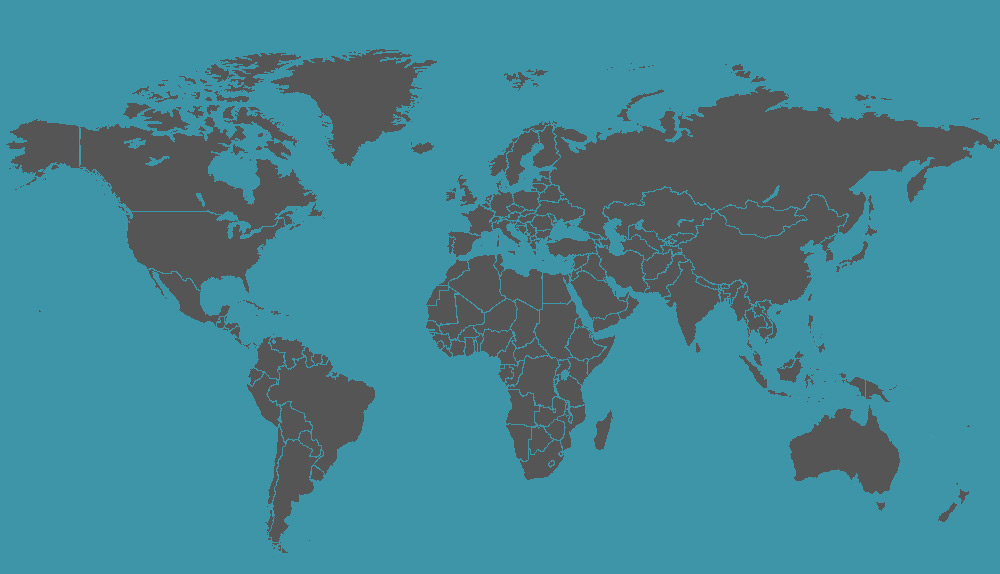
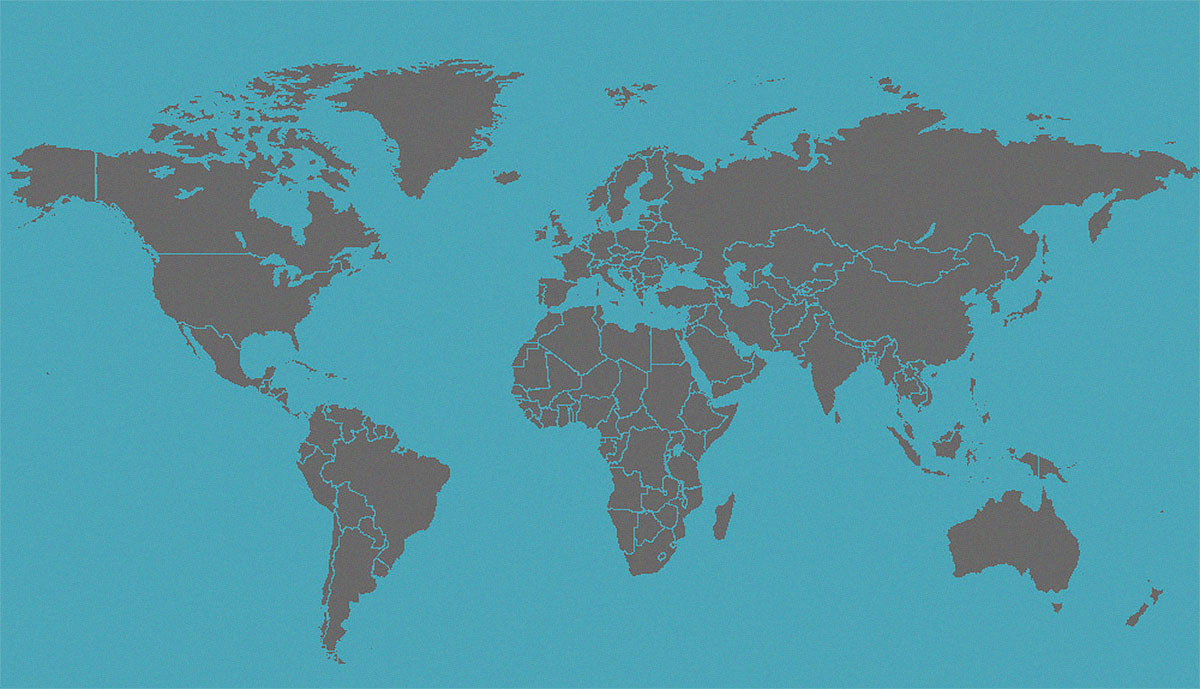
Bigger map image.
[finishes #62957502]

diff --git a/app/models/user.rb b/app/models/user.rb
@@ -24,11 +24,11 @@ class User
   def world_map_name
     user_map = "world_map_#{id.to_s}.jpg"
     default_map = 'world_map.jpg'
-    return File.file?("public/maps/#{user_map}") ? user_map : default_map
+    return File.file?("public/maps/#{user_map}") ? "maps/#{user_map}" : default_map
   end
 
   def save_mini_map(city)
-    map = MiniMagick::Image.open("public/maps/#{world_map_name}")
+    map = MiniMagick::Image.open("public/#{world_map_name}")
     marker = MiniMagick::Image.open('app/assets/images/pin.png')
 
     map = map.composite(marker) do |c|

diff --git a/app/models/city.rb b/app/models/city.rb
@@ -11,9 +11,9 @@ class City
 
   before_destroy { users.clear }
 
-  IMAGE_GLOBE_SIZE = 1000.0
-  IMAGE_GLOBE_CENTER_X = 463.0
-  IMAGE_GLOBE_CENTER_Y = 330.0
+  IMAGE_GLOBE_SIZE = 1200.0
+  IMAGE_GLOBE_CENTER_X = 557.0
+  IMAGE_GLOBE_CENTER_Y = 406.0
   DEGREES_TO_RADIANS = Math::PI / 180
   RADIANS_TO_PIXELS = IMAGE_GLOBE_SIZE / (2.0 * Math::PI)
   GOOGLE_PARAMS = "+proj=merc +a=6378137 +b=6378137 +lat_ts=0.0 +lon_0=0.0 +x_0=0.0 +y_0=0 +k=1.0 +units=m +nadgrids=@null +no_defs"
